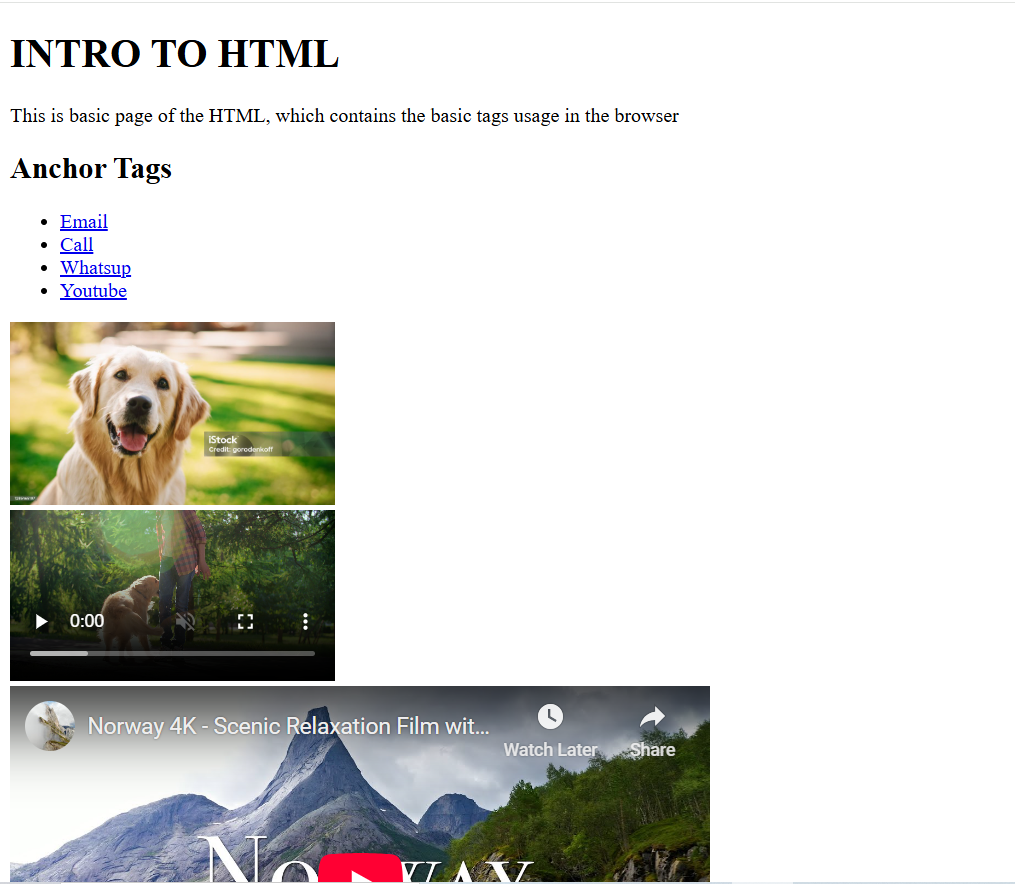
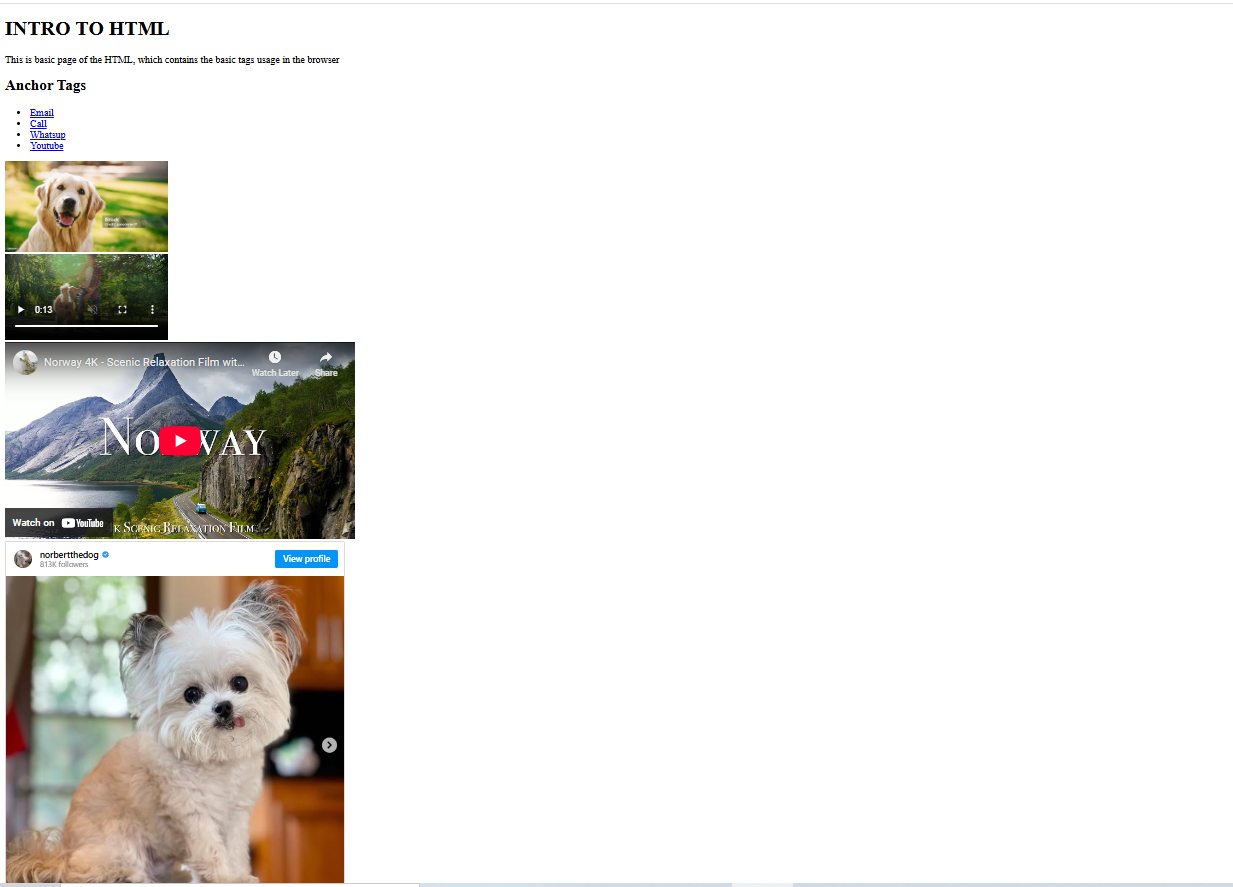
Added proper screenshot

diff --git a/IntoToHtml/readme.md b/IntoToHtml/readme.md
@@ -20,8 +20,6 @@ Below is a screenshot of the UI as seen in a browser:
 
 ![Screenshot of Intro to HTML page](Capture.PNG)
 
-> _Replace `screenshot.png` with an actual screenshot of your rendered HTML page in the project directory._
-
 ## How to Use
 
 1. Open the `index.html` file in your web browser.
